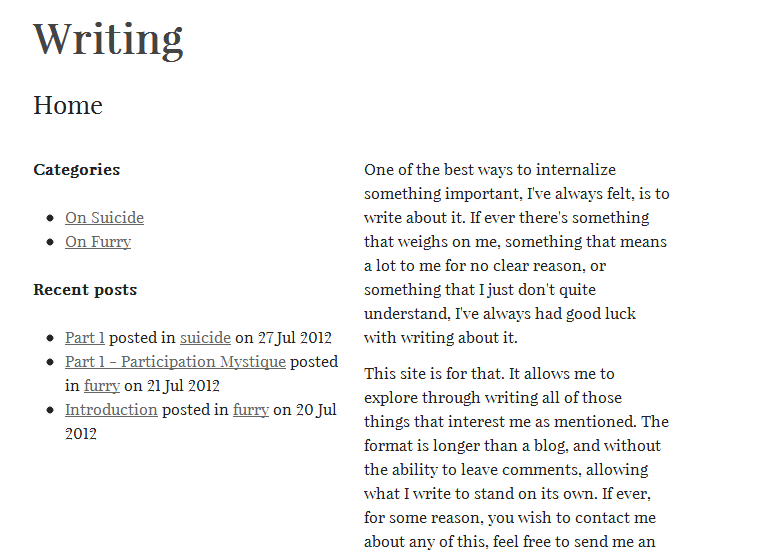
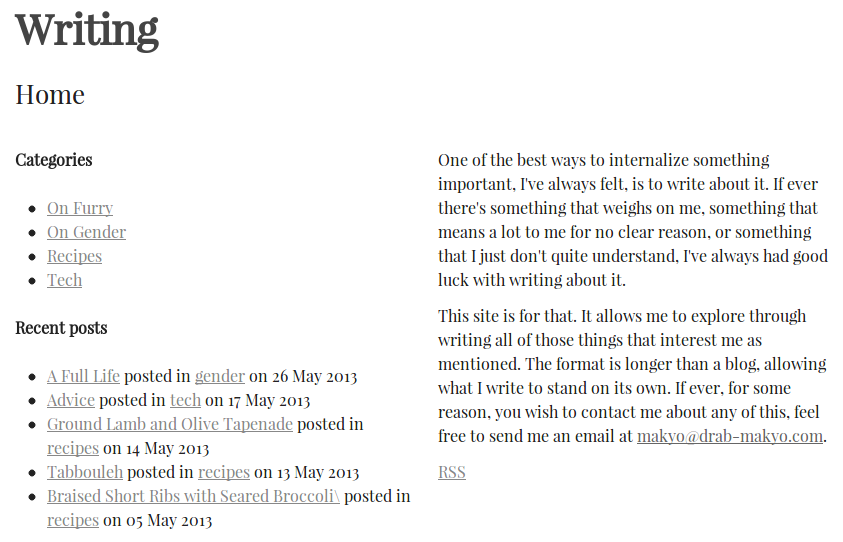
More projects, cleaning up layouts

diff --git a/_layouts/default.html b/_layouts/default.html
@@ -1,34 +1,3 @@
-<!DOCTYPE html>
-
-<html>
-    <head>
-        <title>{{ page.title }} - Drab Makyo - Matthew Scott</title>
-        <link href="http://fonts.googleapis.com/css?family=Cabin" rel="stylesheet" type="text/css" />
-        <link type="text/css" rel="stylesheet" media="screen" href="/css/base.css" />
-    </head>
-    <body>
-        <article>
-            <header>
-                <div id="skip-links"><a href="#content">Skip to content</a></div>
-                <h1><a href="/" title="Home" rel="home" id="logo"><img src="/assets/logo.png" alt="Home" /></a><span>Drab Makyo - Matthew Scott</span></h1>
-                <div id="navigation">
-                    <ul>
-                        <li><a href="/sounds/">Sounds</a></li>
-                        <li><a href="/sights/">Sights</a></li>
-                        <li><a href="http://writing.drab-makyo.com">Words</a></li>
-                        <li><a href="/projects/">Projects</a></li>
-                    </ul>
-                </div>
-            </header>
-            <section>
-                <h2><a name="content">{{ page.title }}</a></h2>
+{% include top.html %}
                 {{ content }}
-            </section>
-            <footer>
-                &copy; 2013 M. Scott - available on <a href="https://github.com/makyo/drab-makyo.com" target="_blank">GitHub</a><br />
-                This work is licensed under a <a rel="license" href="http://creativecommons.org/licenses/by-sa/3.0/">Creative Commons Attribution-ShareAlike 3.0 Unported License</a>.<br />
-                <a rel="license" href="http://creativecommons.org/licenses/by-sa/3.0/"><img alt="Creative Commons License" style="border-width:0" src="http://i.creativecommons.org/l/by-sa/3.0/88x31.png" /></a>
-            </footer>
-        </article>
-    </body>
-</html>
+{% include bottom.html %}

diff --git a/_includes/top.html b/_includes/top.html
@@ -1,0 +1,24 @@
+<!DOCTYPE html>
+
+<html>
+    <head>
+        <title>{{ page.title }} - Drab Makyo - Matthew Scott</title>
+        <link href="http://fonts.googleapis.com/css?family=Cabin" rel="stylesheet" type="text/css" />
+        <link type="text/css" rel="stylesheet" media="screen" href="/css/base.css" />
+    </head>
+    <body>
+        <article>
+            <header>
+                <div id="skip-links"><a href="#content">Skip to content</a></div>
+                <h1><a href="/" title="Home" rel="home" id="logo"><img src="/assets/logo.png" alt="Home" /></a><span>Drab Makyo - Matthew Scott</span></h1>
+                <div id="navigation">
+                    <ul>
+                        <li><a href="/sounds/">Sounds</a></li>
+                        <li><a href="/sights/">Sights</a></li>
+                        <li><a href="http://writing.drab-makyo.com">Words</a></li>
+                        <li><a href="/projects/">Projects</a></li>
+                    </ul>
+                </div>
+            </header>
+            <section>
+                <h2><a name="content">{{ page.title }}</a></h2>

diff --git a/visualization/index.html b/visualization/index.html
@@ -1,21 +1,17 @@
 ---
 layout: default
-title: Projects
+title: Visualization Projects
 
 ---
 
-<p>Sub-categories: <a href="/visualization">Visualization</a></p>
-
-{% for post in site.categories.projects limit:10 %}
-    {% unless post.tags contains 'noindex' %}
+{% for post in site.categories.visualization limit:10 %}
     <section class="post">
         <h3><a href="{{ post.url }}">{{ post.title }}</a></h3>
         <p>Posted in {% for category in post.categories %}{% if category != "posts" %}<a href="/{{ category }}">{{ category }}</a>{% if forloop.last != true %},{% endif %} {% endif %}{% endfor %} on {{ post.date|date_to_string }}</p>
         <div class="post-content">
-            <a href="{{ post.url }}"><img src="{{ post.image }}" /></a>
+            <img src="{{ post.image }}" />
         </div>
     </section>
-    {% endunless %}
 {% endfor %}
 
 <br clear="all" />

diff --git a/index.html b/index.html
@@ -8,13 +8,19 @@ title: Home
 <hr />
 
 {% for post in site.posts limit:10 %}
+    {% unless post.tags contains 'noindex' %}
     <section class="post">
         <h3><a href="{{ post.url }}">{{ post.title }}</a></h3>
         <p>Posted in {% for category in post.categories %}{% if category != "posts" %}<a href="/{{ category }}">{{ category }}</a>{% if forloop.last != true %},{% endif %} {% endif %}{% endfor %} on {{ post.date|date_to_string }}</p>
         <div class="post-content">
+            {% if post.image %}
+            <a href="{{ post.url }}"><img src="{{ post.image }}" /></a>
+            {% else %}
             {{ post.content }}
+            {% endif %}
         </div>
     </section>
+    {% endunless %}
 {% endfor %}
 
 <br clear="all" />

diff --git a/_includes/bottom.html b/_includes/bottom.html
@@ -1,0 +1,9 @@
+            </section>
+            <footer>
+                &copy; 2013 M. Scott - available on <a href="https://github.com/makyo/drab-makyo.com" target="_blank">GitHub</a><br />
+                This work is licensed under a <a rel="license" href="http://creativecommons.org/licenses/by-sa/3.0/">Creative Commons Attribution-ShareAlike 3.0 Unported License</a>.<br />
+                <a rel="license" href="http://creativecommons.org/licenses/by-sa/3.0/"><img alt="Creative Commons License" style="border-width:0" src="http://i.creativecommons.org/l/by-sa/3.0/88x31.png" /></a>
+            </footer>
+        </article>
+    </body>
+</html>

diff --git a/css/base.css b/css/base.css
@@ -102,12 +102,16 @@ a:visited {
     float: left;
     height: 600px;
     overflow: hidden;
-    border-bottom: 1px solid #aaa;
+    border-bottom: 1px solid #bdb;
     -moz-box-shadow: inset 0 -50px 50px -50px #aca;
     -webkit-box-shadow: inset 0 -50px 50px -50px #aca;
     box-shadow: inset 0 -50px 50px -50px #aca;
 }
 
+.post-content {
+    text-align: center;
+}
+
 .post img {
-    width: 80%;
+    max-width: 80%;
 }

diff --git a/_layouts/post.html b/_layouts/post.html
@@ -1,0 +1,4 @@
+{% include top.html %}
+                {% if page.image %}<div style="text-align: center" /><img alt="{{ page.title }}" src=" {{ page.image }}" /></div>{% endif%}
+                {{ content }}
+{% include bottom.html %}
